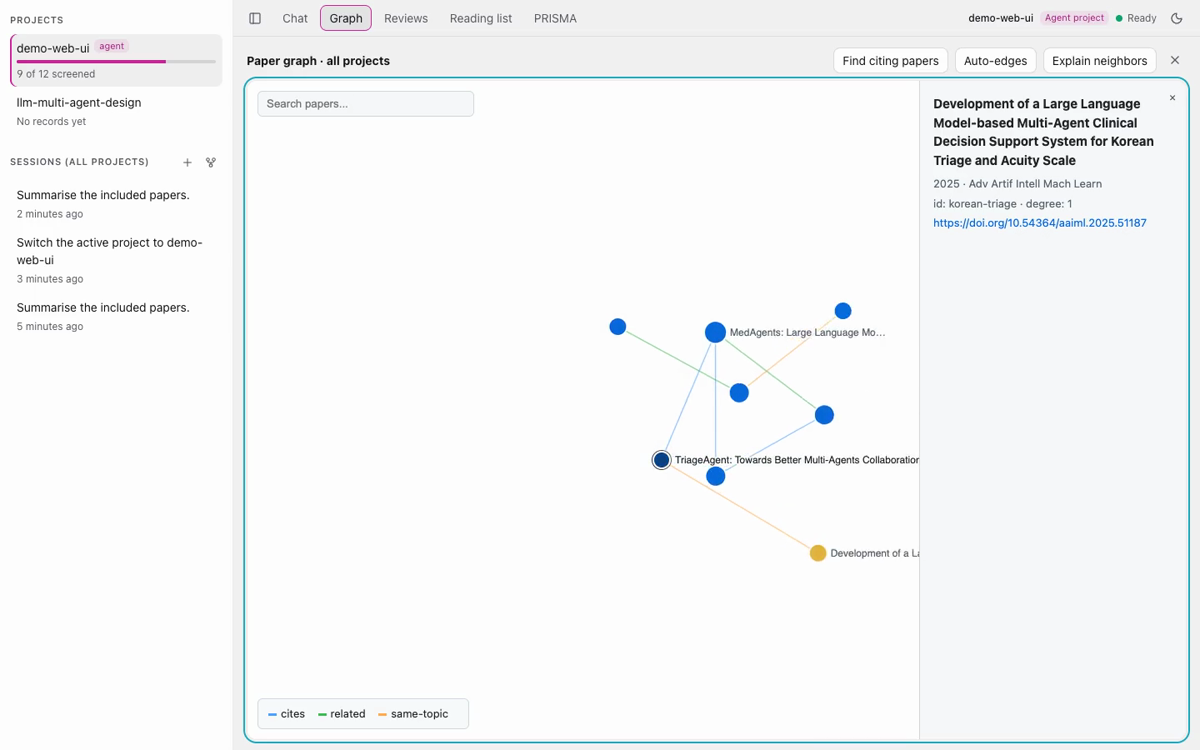
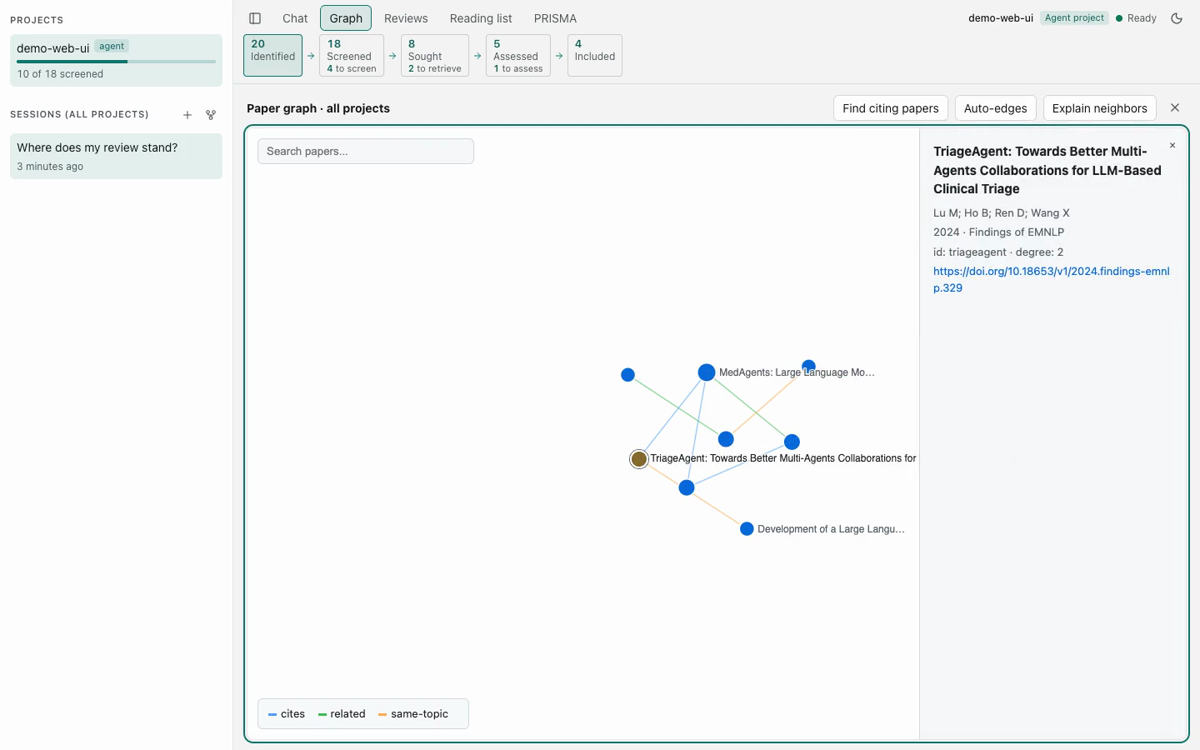
docs(readme): show the screening desk and the restyled research web

diff --git a/.github/README.md b/.github/README.md
@@ -20,9 +20,9 @@
   <img src="https://img.shields.io/badge/APIs-arXiv%20%2B%20OpenAlex%20(keyless)-ffa94d?style=flat&colorA=222222" alt="keyless APIs">
 </p>
 
-![research web in light mode, Chat tab, mid-turn: the researcher asked "Switch the active project to demo-web-ui"; the agent's folded steps are open on its thinking and the bash and write tool calls it ran, and its answer says the active project is now demo-web-ui, followed by a table of PRISMA-ScR counts read from review.db. The status reads Working… (a queued follow-up is running) and the message box shows a Stop button beside the claude-opus-5-5 and Thinking: medium pickers. The sidebar lists the projects demo-web-ui (9 of 12 screened) and llm-multi-agent-design and one earlier session; the header still offers Make active until the turn settles and the views refresh.](../assets/research/research-web-poster.png)
+![research web in light mode, Reading list tab, a decision half-made at the screening desk: the paper "Explainability of Agent Behavior in Clinical Decision Support Systems" is open in the panel on the right with Exclude chosen, and the reason picker underneath lists this project's own exclusion criteria, numbered 1 to 9 — number 2, "Multi-agent systems without LLMs (rule-based agents, reinforcement learning)", is selected, with Population / Concept / Context not met, No abstract and Other… below it. Under the picker sit Save exclusion and Cancel and a note that reads "Reinforcement-learning agents, no language model."; below that the abstract is marked with the researcher's own highlight words, green for include and vermilion underlined for exclude. The header strip counts 20 Identified, 18 Screened with 5 still to screen, 8 Sought with 2 to retrieve, 5 Assessed with 1 to assess, 4 Included, and the list behind the panel holds all five papers still waiting, their titles marked.](../assets/research/research-web-poster.png)
 
-_[Watch the 6-minute demo ↗](https://laansdole.github.io/research-harness/#research-web)_ — one unedited take with chapters. A researcher returns to her scoping review on multi-agent LLMs for clinical decision support, asks which paper to read first, triages her reading list, checks a claim in her review, explores the paper graph, and opens the PRISMA diagram. Recorded with real agent turns on a demo project built from a real OpenAlex search.
+_[Watch the 5½-minute demo ↗](https://laansdole.github.io/research-harness/#research-web)_ — one unedited take with chapters, in real time. A researcher comes back to her scoping review on multi-agent LLMs for clinical decision support, asks the agent where the review stands, opens her reading list from the PRISMA strip, has the words from her own criteria marked in every title and abstract, screens four papers herself — include, exclude with a reason, maybe, and one where she confirms what the agent suggested — marks a claim in her draft for checking, glances at the paper graph and ends on the PRISMA diagram her decisions just changed. Recorded with a real agent turn on a demo project built from a real OpenAlex search.
 
 ## Get started
 
@@ -41,31 +41,38 @@ Then just say what you are working on — *"I'm starting a scoping review on LLM
 
 - **Frames your question** as PCC/PICO with inclusion and exclusion criteria.
 - **Plans the search** — which databases suit your question, and ready-to-paste search strings in each one's own syntax. It searches arXiv, OpenAlex and your own folder of PDFs itself; for paywalled databases you run the string and import the export (RIS, BibTeX or CSV). Nothing is scraped.
-- **Screens** — removes duplicates, then checks each record against your criteria and gives a one-sentence reason you can check. You see the verdicts before they are saved.
+- **Screens with you** — it removes duplicates, then proposes a verdict for each record against your criteria, with a one-sentence reason and how confident it is. You decide at the screening desk: *Include*, *Exclude* or *Maybe* with one key, the exclusion reason picked from your own criteria, a note if you want one. Nothing is saved until you choose.
+- **Marks your own words** — the terms from your inclusion and exclusion criteria are highlighted in every title and abstract, green for include and vermilion for exclude, so you can see at a glance why a paper is there. Suggested from your scope; edit the list whenever it is wrong.
 - **Finds full texts** from open-access sources only (OpenAlex, Unpaywall, arXiv, your own PDFs). Anything it cannot find is marked *not retrieved*, never guessed.
 - **Drafts a cited review** from your included papers, citing only papers in your review.
 - **Counts for you** — every PRISMA-ScR number comes from each record's state, so the diagram always adds up.
 - **Exports** RIS or BibTeX for Covidence, Zotero or EndNote whenever you want.
 
+### Screening desk
+
+![research web Reading list tab, filtered to the 4 records not screened yet, with the screening desk open on "A Survey on LLM-based Multi-Agent AI Hospital" (Zonghai Yao; Hong Qing Yu, 2025) and its DOI. The decision line reads "Your decision: Maybe — Unclear from the title and abstract", with Maybe outlined in amber beside Include and Exclude and their I, E and M keys, an optional note box, and a Screen button next to "No PDF downloaded". Below, the abstract is marked with the researcher's highlight words — green for include words, vermilion underlined for exclude words — and the four waiting titles on the left carry the same marks. The header strip counts 20 Identified, 18 Screened with 4 to screen, 8 Sought, 5 Assessed, 4 Included.](../assets/research/web-screening.png)
+
+One paper at a time, with its abstract, its marks and the agent's suggestion if it has one. *Include*, *Exclude* or *Maybe* with one key; an exclusion asks which of your own criteria it failed and lets you add a note; *Maybe* keeps the paper open for later. The panel moves to the next paper on its own, and every decision is written as your call, with your reason, into the PRISMA counts.
+
 ### Reading list
 
-![research web Reading list tab for the demo-web-ui project, filtered to Excluded at title/abstract (5 of 14 records): each row shows the paper's title, authors, year and venue, an Excluded · T/A state, and an "Ask agent to reconsider" button. Filter chips above show All 14, Duplicate 2, Excluded T/A 5, Passed T/A 1, Full text ready 1, Full text not found 1, Included 4, beside a search box; a banner offers "Screen full texts" for the 1 full text ready.](../assets/research/web-reading-list.png)
+![research web Reading list tab for the demo-web-ui project, all 20 records: each row shows the paper's title, authors, year and venue with the researcher's highlight words marked in the titles, then its state and what it needs next — Duplicate, Passed T/A with a Retry PDF button, Not screened with a Screen button, and a vermilion "Excluded · T/A" with "Ask agent to reconsider". Filter chips above read All 20, Not screened 4, Duplicate 2, Excluded · T/A 6, Passed T/A 2, Full text ready 1, Full text not found 1, Included 4, beside a search box, and a "Highlight words 23" button sits under them; a banner offers "Screen them" for the 4 not screened.](../assets/research/web-reading-list.png)
 
-Every record with its state, verdict and reason. Filter by state, search by title, author or DOI, and triage with the keyboard (↑/↓, Enter, Esc).
+Every record with its state, verdict and reason. Filter by state, search by title, author or DOI, move with ↑/↓ and screen without leaving the keyboard. Each row says what it needs next, and the counts at the top are links — click *Screened* to see only the papers still waiting for you.
 
 ### Paper graph
 
-![research web Graph tab: the paper graph across all projects, a handful of papers connected by cites, related and same-topic edges, with a side panel open on "Development of a Large Language Model-based Multi-Agent Clinical Decision Support System for Korean Triage and Acuity Scale" (2025, Adv Artif Intell Mach Learn, DOI link) and buttons for Find citing papers, Auto-edges and Explain neighbors.](../assets/research/web-graph.png)
+![research web Graph tab: the paper graph across all projects, nine papers connected by cites, related and same-topic edges, with "TriageAgent: Towards Better Multi-Agents Collaborations for LLM-Based Clinical Triage" selected and its side panel open — Lu M; Ho B; Ren D; Wang X, 2024, Findings of EMNLP, id triageagent, degree 2, with its DOI link — and buttons for Find citing papers, Auto-edges and Explain neighbors.](../assets/research/web-graph.png)
 
 How your papers connect — citation links checked against OpenAlex, plus related and same-topic links. Click a paper for its details.
 
 ### PRISMA diagram
 
-![research web PRISMA tab: the PRISMA-ScR flow for demo-web-ui — 14 records identified from OpenAlex, 2 duplicates removed, 12 screened, 5 excluded (no abstract 3, Other 1, Concept 1), 7 reports sought, 1 not retrieved (no open-access copy found), 5 assessed for eligibility, 0 excluded, 4 studies included, with notes for 1 awaiting full-text retrieval and 1 awaiting full-text screening, and a Download SVG button.](../assets/research/web-prisma.png)
+![research web PRISMA tab in dark mode: the PRISMA-ScR flow for demo-web-ui — 20 records identified from OpenAlex, 2 duplicates removed, 18 screened, 6 excluded with the researcher's own reasons listed (no abstract 3, Other 1, "Multi-agent systems without LLMs (rule-based agents, reinforcement learning)" 1, Concept 1), 8 reports sought, 1 not retrieved (no open-access copy found), 5 assessed for eligibility, 0 excluded, 4 studies included, and notes below for 4 awaiting title/abstract screening (1 maybe), 2 awaiting full-text retrieval and 1 awaiting full-text screening.](../assets/research/web-prisma.png)
 
 Drawn from your records and ready to download as SVG for your manuscript.
 
-**You stay in control.** The reading list, review, graph and PRISMA views only show your work. Buttons such as *Screen full texts* or *Check the claims in this section* just fill in the message box — nothing runs until you press Enter. The workspace runs on your own machine (`127.0.0.1`), and each review lives in its own folder under `~/.research-harness/projects/`, so several reviews can run side by side.
+**You stay in control.** Nothing is screened behind your back: the agent proposes, you decide at the desk, and the diagram counts your decisions and your reasons. The reading list, review, graph and PRISMA views only show work that is already there. Buttons such as *Screen full texts* or *Check the claims in this section* just fill in the message box — nothing runs until you press Enter. The workspace runs on your own machine (`127.0.0.1`), and each review lives in its own folder under `~/.research-harness/projects/`, so several reviews can run side by side.
 
 ## Commands
 

diff --git a/packages/research-web/README.md b/packages/research-web/README.md
@@ -10,9 +10,12 @@ RESEARCH_WEB_NO_OPEN=1 research web
 
 Requires `bun` and the repo's `node_modules` (run from the checkout, like the dev `omp` wrapper).
 
+One unedited 5½-minute take of the whole UI — a researcher screening her own papers, in real time — is committed at [`assets/research/research-web.mp4`](../../assets/research/research-web.mp4) with chapter marks in [`research-web-chapters.json`](../../assets/research/research-web-chapters.json). [`assets/research/tapes/research-web.ts`](../../assets/research/tapes/research-web.ts) is the Puppeteer tape that records it against a scratch `~/.research-harness`.
+
 ## What you get
 
 - **Header**: the project you are viewing next to the project the agent works on (slash commands target the latter), a one-click "Make active" prefill and agent status (Connecting / Ready / Working / Disconnected). The view and project live in the URL (`#records/<slug>`), so reloads and links keep your place.
+- **PRISMA strip**: the five PRISMA-ScR counts under the header — Identified, Screened, Sought, Assessed, Included — each with what that stage still owes you (`4 to screen`, `2 to retrieve`). Click a box to open the reading list filtered to that stage; the box you are filtered to stays marked. On phones it collapses to one line of the three counts that matter.
 - **Chat**: streaming transcript (collab-web renderers); each agent turn is one row, with its thinking and tool calls folded under a "thinking · N steps" disclosure so the answer stays in front. An empty chat offers starter actions picked from the agent project's progress.
 - **Composer**: a raised card under the chat with the model and thinking-level pickers next to Send. It grows with the text, takes pasted or dropped images, stops a turn with Esc, and lets you restore the draft a prefill replaced.
 - **Sidebar**: projects with screening progress and sessions (resume, new, fork). ⌘/Ctrl+B collapses it; below 900 px it becomes a drawer.
@@ -20,7 +23,7 @@ Requires `bun` and the repo's `node_modules` (run from the checkout, like the de
 - **Reading list**: `review.db` records with stage chips and counts, search by title/author/DOI, and keyboard triage (↑/↓, Enter opens the record, Esc closes). The record panel shows the abstract, both screening verdicts with their rationale, DOI and PDF links, and the next action for that record; on phones it opens as a full-screen sheet with Prev/Next.
 - **Screening desk**: decide a paper yourself from the reading list — Include / Exclude / Maybe (`I`, `E`, `M`), the exclude reason picked from your project's own criteria, an optional note, then it advances to the next undecided paper. Verdicts are written by `review.py verdict` and tagged `[researcher]`.
 - **Highlight words**: a per-project include and exclude word list (suggested from your `scope.md` in one click), marked in every title and abstract — green for include, vermilion underlined for exclude.
-- **Reviews**: `review-*.md` rendered with a contents list, `[n]` citations that preview on hover and jump to the reference (browser Back returns), linked DOIs, per-section Revise and Check, and a Check-claim action on selected text.
+- **Reviews**: `review-*.md` rendered with a contents list, `[n]` citations that preview on hover and jump to the reference (browser Back returns), linked DOIs, per-section Revise and Check. Select a sentence and a margin note appears beside it with the quote and a Check-claim button, which prefills the request rather than sending it.
 - **Graph**: the `paper_graph.py` interactive graph; click or search a paper (Enter selects the top hit) for agent actions. Labels show for the focused paper and its neighbours.
 - **PRISMA**: the `prisma_scr.py` SVG with Fit / 100 % (when it doesn't fit) and SVG download.
 - **Empty states** say what to do next, with a button that prefills it.
